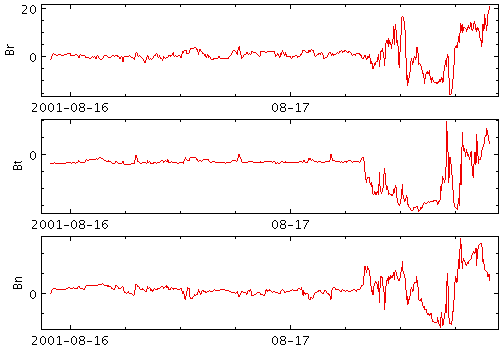
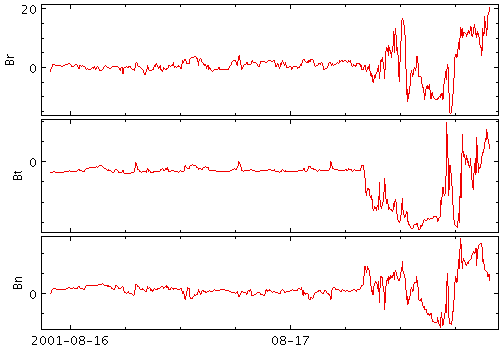
ttools: apply gang profile/aspect preparation correctly
Ensure that the adjustProfiles and adjustAspects methods of
Ganger are called when they should be when preparing plots in
STILTS and utility classes.

This was not being done correctly before; one consequence was that
the horizontal (time) axis on stacked (time) plots was labelled
for each plot rather than only once on the bottom.

diff --git a/ttools/src/main/uk/ac/starlink/ttools/plot2/PlotScene.java b/ttools/src/main/uk/ac/starlink/ttools/plot2/PlotScene.java
@@ -613,7 +613,8 @@ public class PlotScene<P,A> {
      * @param  ganger  defines plot grouping
      * @param  surfFact   surface factory
      * @param  layerArrays   per-zone layer arrays (nz-element array)
-     * @param  profiles   per-zone profiles (nz-element array)
+     * @param  profiles   per-zone profiles (nz-element array);
+     *                    should be result of ganger.adjustProfiles
      * @param  aspectConfigs   per-zone config map providing entries
      *                         for surf.getAspectKeys (nz-element arrays)
      * @param  trimmings   plot decoration specification by zone
@@ -640,8 +641,7 @@ public class PlotScene<P,A> {
          * from the data (slow).  */
         int nz = ganger.getZoneCount();
         long t0 = System.currentTimeMillis();
-        ZoneContent<P,A>[] contents =
-            PlotUtil.createZoneContentArray( surfFact, nz );
+        A[] initialAspects = PlotUtil.createAspectArray( surfFact, nz );
         for ( int iz = 0; iz < nz; iz++ ) {
             PlotLayer[] layers = layerArrays[ iz ];
             P profile = profiles[ iz ];
@@ -649,10 +649,22 @@ public class PlotScene<P,A> {
             Range[] ranges = surfFact.useRanges( profile, config )
                            ? surfFact.readRanges( profile, layers, dataStore )
                            : null;
-            A aspect = surfFact.createAspect( profile, config, ranges );
-            contents[ iz ] = new ZoneContent<P,A>( profile, aspect, layers );
+            initialAspects[ iz ] =
+                surfFact.createAspect( profile, config, ranges );
         }
         PlotUtil.logTimeFromStart( logger_, "Range", t0 );
+
+        /* Ensure aspects are consistent across the gang. */
+        A[] aspects = ganger.adjustAspects( initialAspects, -1 );
+
+        /* Package up zone information. */
+        ZoneContent<P,A>[] contents =
+            PlotUtil.createZoneContentArray( surfFact, nz );
+        for ( int iz = 0; iz < nz; iz++ ) {
+            contents[ iz ] =
+                new ZoneContent<P,A>( profiles[ iz ], aspects[ iz ],
+                                      layerArrays[ iz ] );
+        }
  
         /* Construct and return display. */
         return new PlotScene<P,A>( ganger, surfFact, contents, trimmings,

diff --git a/ttools/src/main/uk/ac/starlink/ttools/plot2/task/AbstractPlot2Task.java b/ttools/src/main/uk/ac/starlink/ttools/plot2/task/AbstractPlot2Task.java
@@ -1302,7 +1302,7 @@ public abstract class AbstractPlot2Task implements Task, DynamicTask {
         /* Prepare parallel arrays of per-zone information for the plotting. */
         final int nz = zoneSuffixes.length;
         final PlotLayer[][] layerArrays = new PlotLayer[ nz ][];
-        final P[] profiles = PlotUtil.createProfileArray( surfFact, nz );
+        final P[] initialProfiles = PlotUtil.createProfileArray( surfFact, nz );
         final Trimming[] trimmings = new Trimming[ nz ];
         final ConfigMap[] aspectConfigs = new ConfigMap[ nz ];
         final ShadeAxisKit[] shadeKits = new ShadeAxisKit[ nz ];
@@ -1375,11 +1375,12 @@ public abstract class AbstractPlot2Task implements Task, DynamicTask {
 
             /* Populate per-zone arrays. */
             layerArrays[ iz ] = zoneLayers;
-            profiles[ iz ] = profile;
+            initialProfiles[ iz ] = profile;
             aspectConfigs[ iz ] = aspectConfig;
             trimmings[ iz ] = new Trimming( legend, legPos, title );
             shadeKits[ iz ] = shadeKit;
         }
+        P[] profiles = ganger.adjustProfiles( initialProfiles );
 
         /* We have all we need.  Construct and return the object
          * that can do the plot. */
